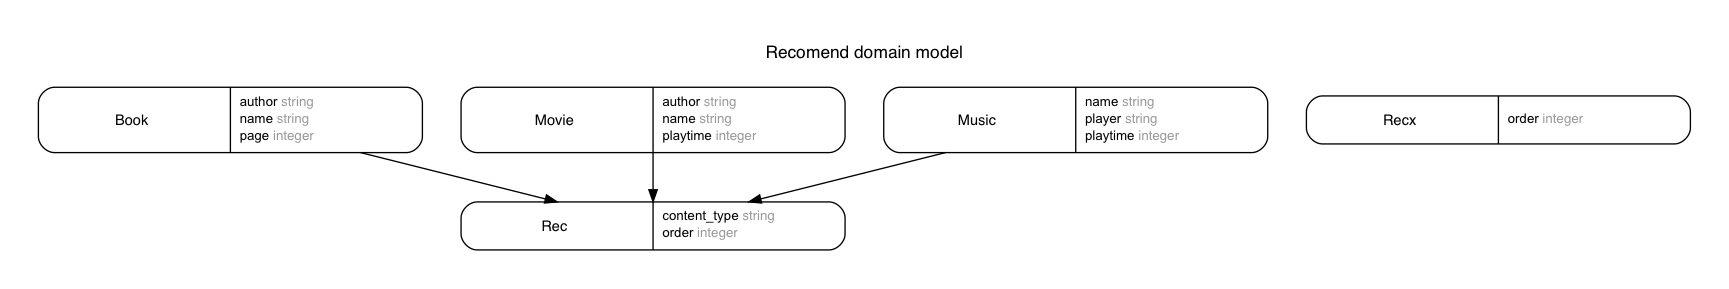
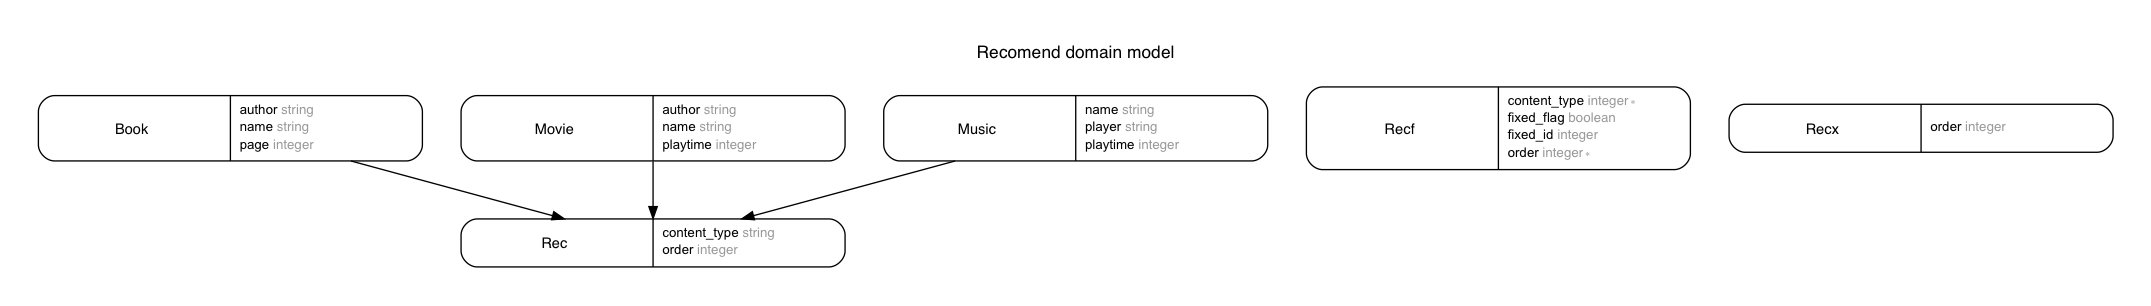
テンプレート機能付きの Recomend モデル。

diff --git a/app/services/recommend_service/recf.rb b/app/services/recommend_service/recf.rb
@@ -1,0 +1,43 @@
+module RecommendService
+  class Recf
+    attr_accessor :recfs
+    attr_accessor :fixed_content_hash, :possible_content_hash
+
+    def initialize(recfs = ::Recf.all)
+      @recfs = recfs.order(:order)
+    end
+
+    def make(valid_content_hash = { book: ::Book.all, music: ::Music.all, movie: ::Movie.all })
+      prepare_target_content(valid_content_hash)
+      recfs.each { |recf| recf.content = target_content(recf) }.select(&:content)
+    end
+
+    private
+
+    def prepare_target_content(valid_content_hash)
+      recf_hash = recfs.group_by(&:content_type)
+      fixed_id_hash = recf_hash.map { |type, recfs| [type, recfs.map(&:fixed_id).compact.uniq] }.to_h
+      valid_fixed_content_hash = { book: ::Book.all, music: ::Music.all, movie: ::Movie.all }
+
+      @fixed_content_hash = fixed_id_hash.map do |type, ids|
+        contents = valid_fixed_content_hash[type.to_sym].where(id: ids)
+        contents_hash = contents.map { |content| [content.id, content] }.to_h
+        [type, contents_hash]
+      end.to_h
+
+      @possible_content_hash = valid_content_hash.map do |type_sym, contents|
+        k = type_sym.to_s
+        [k, contents.where.not(id: fixed_id_hash[k]).sample(recf_hash[k].size)]
+      end.to_h
+    end
+
+    def target_content(recf)
+      content_type = recf.content_type
+      if recf.fixed_flag
+        fixed_content_hash[content_type][recf.fixed_id]
+      else
+        possible_content_hash[content_type].shift
+      end
+    end
+  end
+end

diff --git a/db/seeds.rb b/db/seeds.rb
@@ -6,7 +6,7 @@ def trucate_all
     ActiveRecord::Base.connection.tables.each do |table|
       ActiveRecord::Base.connection.execute("TRUNCATE #{table}") if table != 'schema_migrations'
     end
-  when "sqlite", "sqlite3"
+  when 'sqlite', 'sqlite3'
     ActiveRecord::Base.connection.tables.each do |table|
       ActiveRecord::Base.connection.execute("DELETE FROM #{table}") if table != 'schema_migrations'
       ActiveRecord::Base.connection.execute("DELETE FROM sqlite_sequence where name='#{table}'") if table != 'schema_migrations'
@@ -18,10 +18,20 @@ end
 trucate_all
 
 nums = 10 # 100000
-nums.times { |t| Book.create(name: "book-#{t}") }
-nums.times { |t| Music.create(name: "music-#{t}") }
-nums.times { |t| Movie.create(name: "movie-#{t}") }
+nums.times { |t| Book.create(name: "book-#{t + 1}") }
+nums.times { |t| Music.create(name: "music-#{t + 1}") }
+nums.times { |t| Movie.create(name: "movie-#{t + 1}") }
 
 book = Book.first
 10.times { |t| Rec.create(order: -t, content: book) }
 10.times { |t| Recx.create(order: -t) }
+
+9.times { |t| Recf.create(order: t + 1, content_type: (t % 3 + 1)) }
+recf1 = Recf.where(order: 1).first
+recf1.update_attributes!(fixed_flag: true, fixed_id: 1)
+
+recf4 = Recf.where(order: 4).first
+recf4.update_attributes!(fixed_flag: true, fixed_id: 2)
+
+recf2 = Recf.where(order: 2).first
+recf2.update_attributes!(fixed_flag: true, fixed_id: -1)

diff --git a/db/schema.rb b/db/schema.rb
@@ -10,7 +10,7 @@
 #
 # It's strongly recommended that you check this file into your version control system.
 
-ActiveRecord::Schema.define(version: 20170121125348) do
+ActiveRecord::Schema.define(version: 20170122125348) do
 
   create_table "books", force: :cascade do |t|
     t.string   "name"
@@ -34,6 +34,15 @@ ActiveRecord::Schema.define(version: 20170121125348) do
     t.integer  "playtime"
     t.datetime "created_at", null: false
     t.datetime "updated_at", null: false
+  end
+
+  create_table "recfs", force: :cascade do |t|
+    t.integer  "order",        default: 1,     null: false
+    t.integer  "content_type", default: 1,     null: false
+    t.boolean  "fixed_flag",   default: false
+    t.integer  "fixed_id"
+    t.datetime "created_at",                   null: false
+    t.datetime "updated_at",                   null: false
   end
 
   create_table "recs", force: :cascade do |t|

diff --git a/app/models/recf.rb b/app/models/recf.rb
@@ -1,0 +1,25 @@
+# == Schema Information
+#
+# Table name: recfs
+#
+#  id           :integer          not null, primary key
+#  order        :integer          not null
+#  content_type :integer          not null
+#  fixed_flag   :integer          default("0")
+#  fixed_id     :integer
+#  created_at   :datetime         not null
+#  updated_at   :datetime         not null
+#
+
+class Recf < ApplicationRecord
+  attr_accessor :content
+
+  enum content_type: { book: 1, music: 2, movie: 3 }
+
+  def self.show(recfs)
+    recfs.each do |rec|
+      p rec
+      puts "\t#{rec.content.inspect}"
+    end
+  end
+end

diff --git a/db/migrate/20170122125348_create_recfs.rb b/db/migrate/20170122125348_create_recfs.rb
@@ -1,0 +1,12 @@
+class CreateRecfs < ActiveRecord::Migration[5.0]
+  def change
+    create_table :recfs do |t|
+      t.integer :order, null: false, default: 1
+      t.integer :content_type, null: false, default: 1
+      t.boolean :fixed_flag, default: false
+      t.integer :fixed_id,   default: nil
+
+      t.timestamps
+    end
+  end
+end

diff --git a/README.md b/README.md
@@ -21,3 +21,44 @@ Rec は polymorphic で、 Book, Music, Movie に結びつけている。
 
 Recx は virtual attribute で content メンバーを定義し、そこに Book, Music, Movie を結びつけている。
 ![erd.png](erd.png)
+
+
+Recf クラス
+
+```
+$ rails c
+Running via Spring preloader in process 76136
+Loading development environment (Rails 5.0.1)
+[1] pry(main)> Recf.show(recs);""
+NameError: undefined local variable or method `recs' for main:Object
+from (pry):1:in `<main>'
+[2] pry(main)> q = RecommendService::Recf.new;""
+=> ""
+[3] pry(main)> recs = q.make;""
+  Recf Load (46.9ms)  SELECT "recfs".* FROM "recfs" ORDER BY "recfs"."order" ASC
+  Book Load (20.4ms)  SELECT "books".* FROM "books" WHERE "books"."id" IN (1, 2)
+  Music Load (0.5ms)  SELECT "musics".* FROM "musics" WHERE "musics"."id" = -1
+  Movie Load (0.1ms)  SELECT "movies".* FROM "movies" WHERE 1=0
+  Book Load (0.2ms)  SELECT "books".* FROM "books" WHERE ("books"."id" NOT IN (1, 2))
+  Music Load (0.2ms)  SELECT "musics".* FROM "musics" WHERE ("musics"."id" != -1)
+  Movie Load (0.4ms)  SELECT "movies".* FROM "movies" WHERE (1=1)
+=> ""
+[4] pry(main)> Recf.show(recs);""
+#<Recf id: 1, order: 1, content_type: "book", fixed_flag: true, fixed_id: 1, created_at: "2017-01-22 10:16:02", updated_at: "2017-01-22 10:16:02">
+	#<Book id: 1, name: "book-1", author: nil, page: nil, created_at: "2017-01-22 10:16:02", updated_at: "2017-01-22 10:16:02">
+#<Recf id: 3, order: 3, content_type: "movie", fixed_flag: false, fixed_id: nil, created_at: "2017-01-22 10:16:02", updated_at: "2017-01-22 10:16:02">
+	#<Movie id: 9, name: "movie-9", author: nil, playtime: nil, created_at: "2017-01-22 10:16:02", updated_at: "2017-01-22 10:16:02">
+#<Recf id: 4, order: 4, content_type: "book", fixed_flag: true, fixed_id: 2, created_at: "2017-01-22 10:16:02", updated_at: "2017-01-22 10:16:02">
+	#<Book id: 2, name: "book-2", author: nil, page: nil, created_at: "2017-01-22 10:16:02", updated_at: "2017-01-22 10:16:02">
+#<Recf id: 5, order: 5, content_type: "music", fixed_flag: false, fixed_id: nil, created_at: "2017-01-22 10:16:02", updated_at: "2017-01-22 10:16:02">
+	#<Music id: 1, name: "music-1", player: nil, playtime: nil, created_at: "2017-01-22 10:16:02", updated_at: "2017-01-22 10:16:02">
+#<Recf id: 6, order: 6, content_type: "movie", fixed_flag: false, fixed_id: nil, created_at: "2017-01-22 10:16:02", updated_at: "2017-01-22 10:16:02">
+	#<Movie id: 7, name: "movie-7", author: nil, playtime: nil, created_at: "2017-01-22 10:16:02", updated_at: "2017-01-22 10:16:02">
+#<Recf id: 7, order: 7, content_type: "book", fixed_flag: false, fixed_id: nil, created_at: "2017-01-22 10:16:02", updated_at: "2017-01-22 10:16:02">
+	#<Book id: 8, name: "book-8", author: nil, page: nil, created_at: "2017-01-22 10:16:02", updated_at: "2017-01-22 10:16:02">
+#<Recf id: 8, order: 8, content_type: "music", fixed_flag: false, fixed_id: nil, created_at: "2017-01-22 10:16:02", updated_at: "2017-01-22 10:16:02">
+	#<Music id: 2, name: "music-2", player: nil, playtime: nil, created_at: "2017-01-22 10:16:02", updated_at: "2017-01-22 10:16:02">
+#<Recf id: 9, order: 9, content_type: "movie", fixed_flag: false, fixed_id: nil, created_at: "2017-01-22 10:16:02", updated_at: "2017-01-22 10:16:02">
+	#<Movie id: 2, name: "movie-2", author: nil, playtime: nil, created_at: "2017-01-22 10:16:02", updated_at: "2017-01-22 10:16:02">
+=> ""
+```
